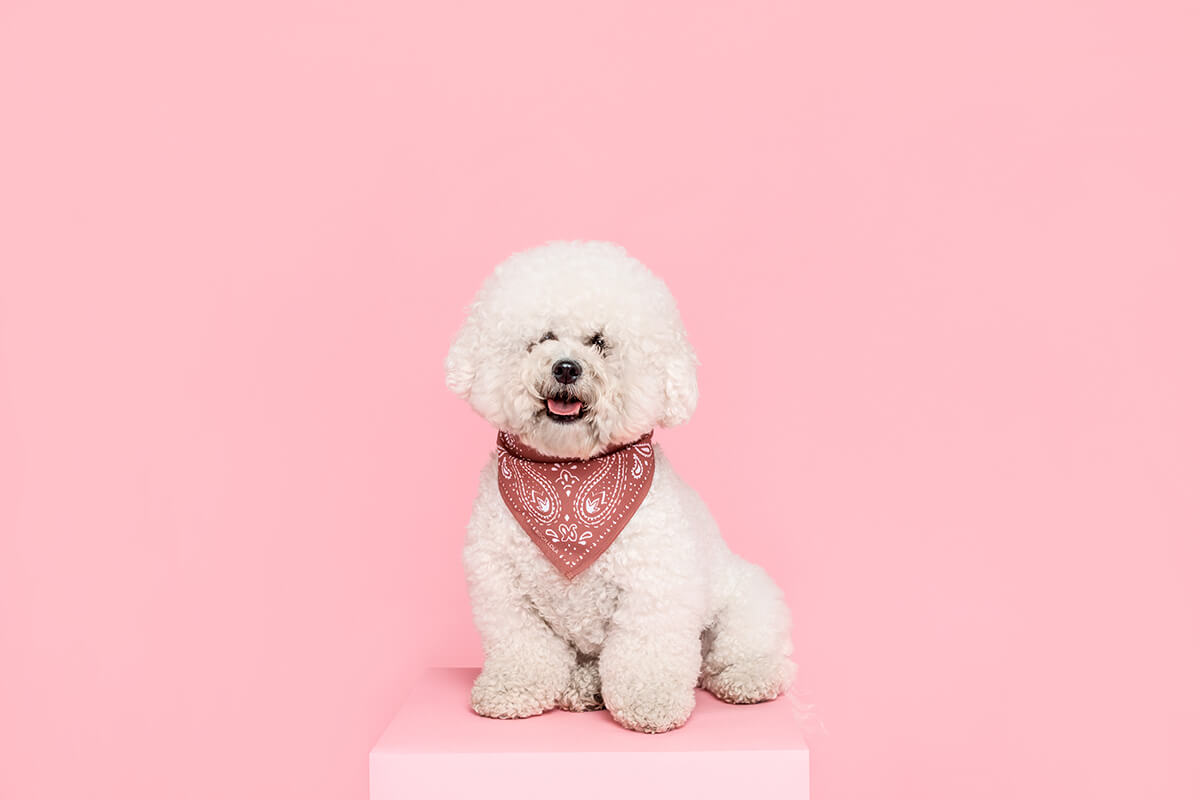
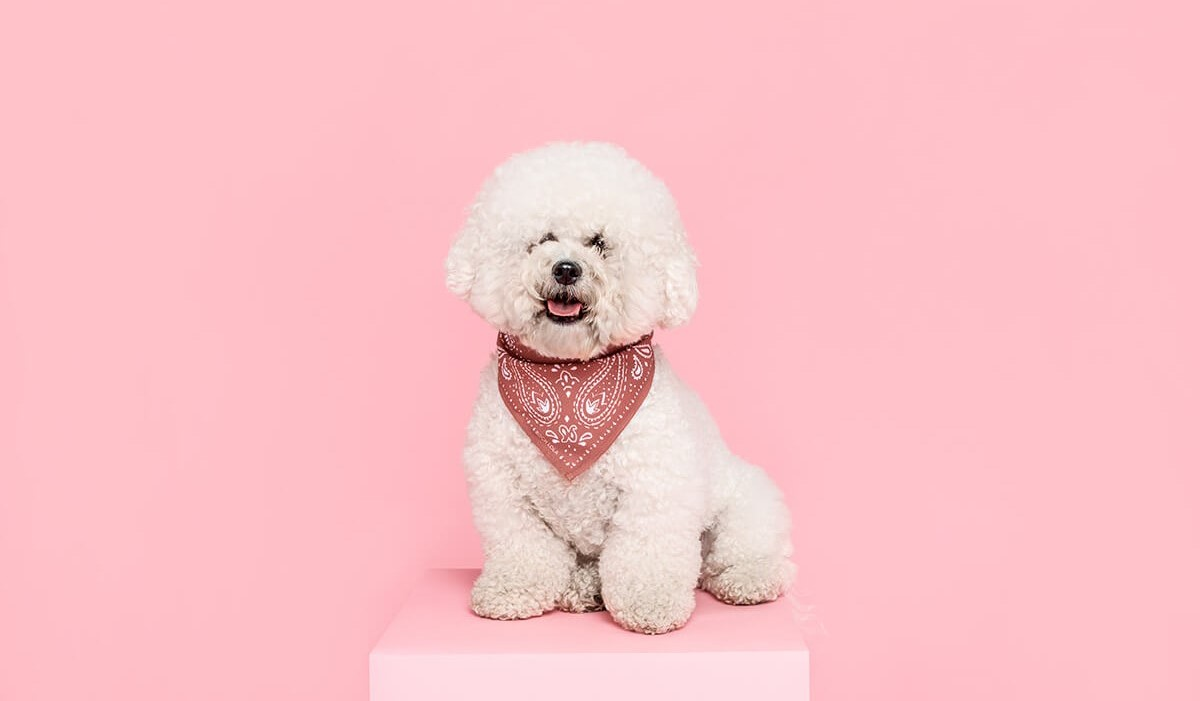
New Calendar Page

diff --git a/PetGroomingServicesWebsite/dogCalender.html b/PetGroomingServicesWebsite/dogCalender.html
@@ -1,0 +1,114 @@
+<html>
+<head>
+    <link rel="stylesheet" href="NavigationBar.css"/>
+<title>PetCare</title>
+<style>
+    footer{
+            position: relative;
+            text-align: center;
+            max-width: 100%;
+}
+.container{
+    font-size: 40px;
+    text-align: center;
+    
+    padding: 10%;
+}
+#datePicker{
+    font-size: 30px;
+    font-family: Quicksand;
+}
+#timePicker{
+    font-size: 30px;
+    font-family: Quicksand;
+}
+body{
+    font-family:Quicksand;
+}
+input[type="number"] {
+  width: 100px;
+}
+
+input + span {
+  padding-right: 30px;
+}
+
+input:invalid+span:after {
+  position: absolute;
+  content: '✖';
+  padding-left: 5px;
+}
+
+input:valid+span:after {
+  position: absolute;
+  content: '✓';
+  padding-left: 5px;
+}
+#submitBtn {
+            font-size: 25px;
+            font-style: italic;
+            font-family: Quicksand;
+            padding: 10px;
+            min-width: 250px;
+            border-radius: 20px;
+            border-color: rgb(255, 194, 202, 255);
+            background-color: rgb(255, 194, 202, 255);
+
+           
+        }
+
+        #submitBtn:hover {
+            box-shadow: 0 12px 16px 0 rgba(0, 0, 0, 0.24), 0 17px 50px 0 rgba(0, 0, 0, 0.19);
+            opacity: 1;
+        }
+</style>
+</head>
+
+<body>
+    <nav>
+        <a href="Home.html"><img id="icon" src="Images/PetCareLogo.png" /></a>
+        <ul>
+            <li><a href="Home.html">Services</a>
+                <ul>
+                    <li><a href="#grooming">Grooming</a>
+                    <li><a href="#bathing">Bathing</a>
+                    <li><a href="#haircut">Haircut</a>
+                </ul>
+            </li>
+            <li><a href="apptBook.html">Book an Appointment</a></li>
+            <li><a href="#">Contact Us</a></li>
+        </ul>
+    </nav>
+<div class="container">
+    <div class="content">
+        <form>
+            <label>
+                Pick the day
+            </label>
+            <input type="date" id="datePicker"name="appointmentDate" min="2022-08-01" max="2022-12-31" step="1">
+            <br>
+            <br>
+            <label>Set the time</label>
+            
+                <input type="time" id="timePicker"name="appointmentDate" min="09:00" max="20:00" value="09:00">
+                <span class="validity"></span>
+                <br>
+                <label style="font-size: 20px;">*from 9:00AM t0 8:00PM</label>
+        </form>
+        <br>
+        <a href="#">
+            <button id="submitBTN">Submit</button>
+
+        </a>
+    </div>
+ 
+   
+
+
+</div>
+    <footer>
+        <p>&copy; 2022 Raya Taji, DISCLAIMER: I do not own any of the pictures and icons used.</p>
+    </footer>
+
+</body>
+</html>

diff --git a/PetGroomingServicesWebsite/dogBooking.html b/PetGroomingServicesWebsite/dogBooking.html
@@ -164,7 +164,10 @@
                     <br>
 
                     <div>
-                        <button id = "nextBtn" onclick ="errorMessage()">Next</button>
+                        <a href="dogCalender.html">
+                            <button id = "nextBtn" onclick ="errorMessage();">Next</button>
+                        </a>
+                       
                     </div>
                 </div>
             </div>

diff --git a/PetGroomingServicesWebsite/Home.html b/PetGroomingServicesWebsite/Home.html
@@ -7,7 +7,6 @@
         html{
     background: url(Images/Dog\ Cover\ Photo.jpg); 
     background-repeat: no-repeat;
-
     background-size: contain;
 }
 footer{
@@ -32,7 +31,7 @@ nav ul li ul li a:hover {
 }
 /*navigation bar styling for color*/
 #underBG{
-    padding-top:  900px;
+    padding-top:  55%;
     text-align: center;
     font-family: Quicksand;
     font-size: 35px;
